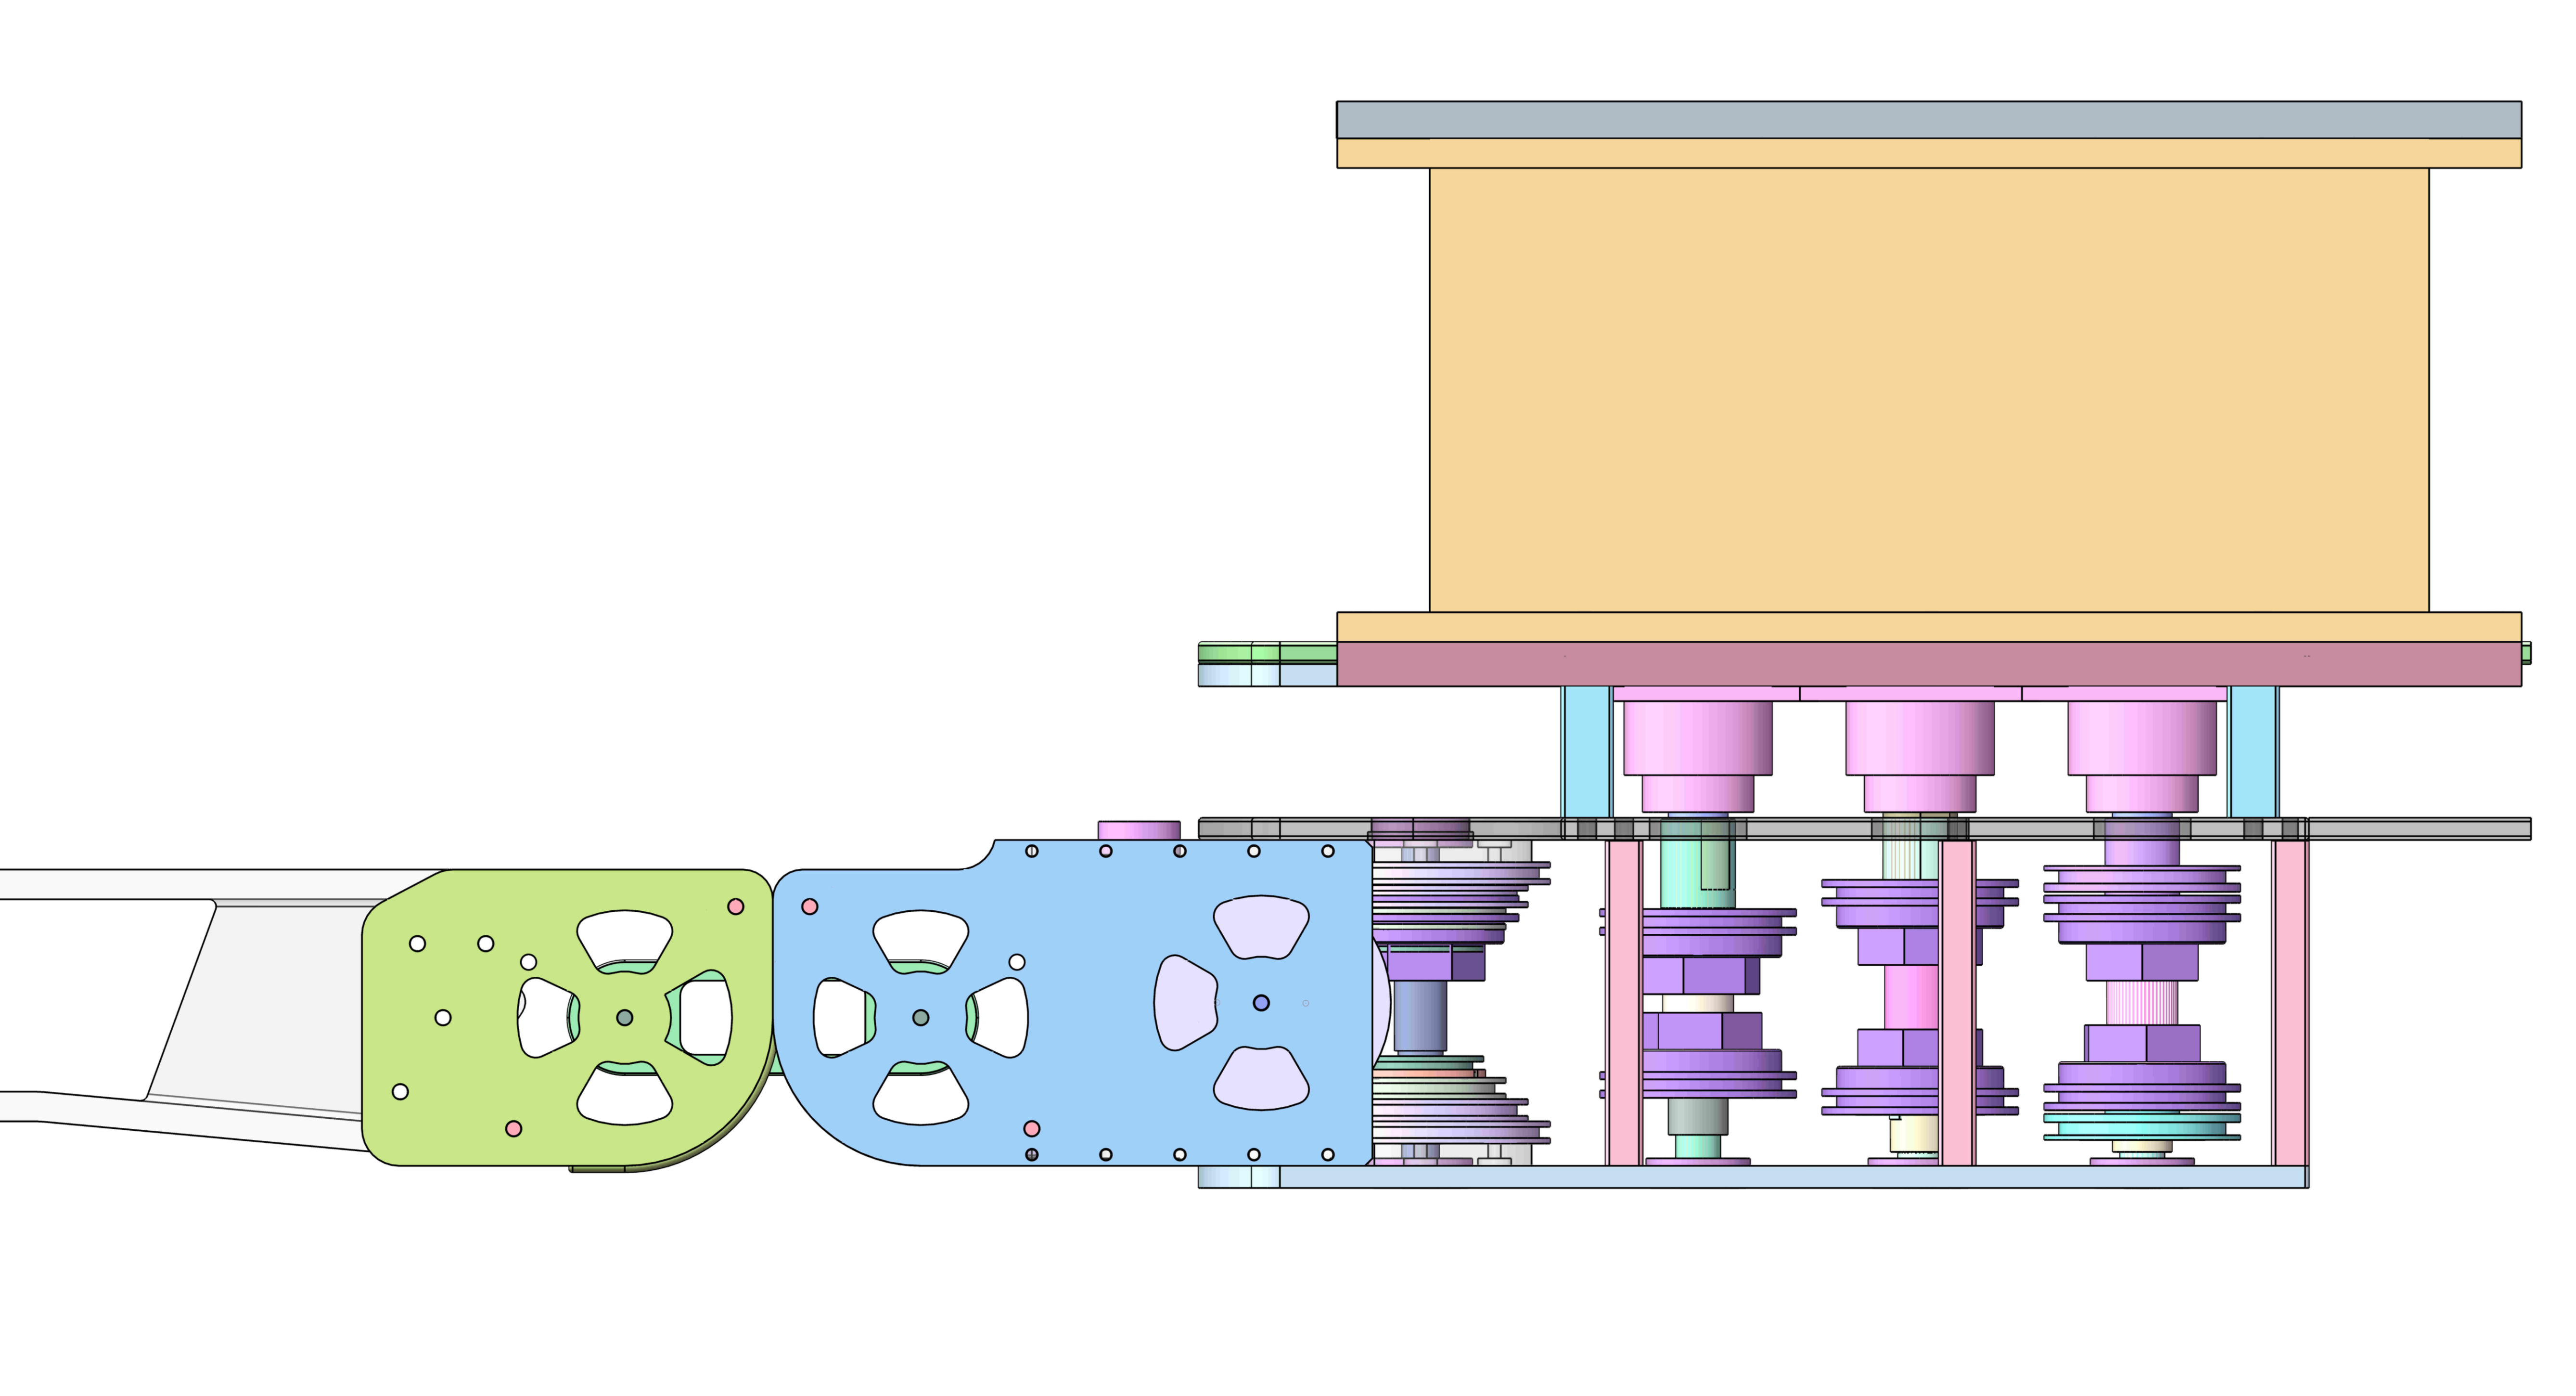
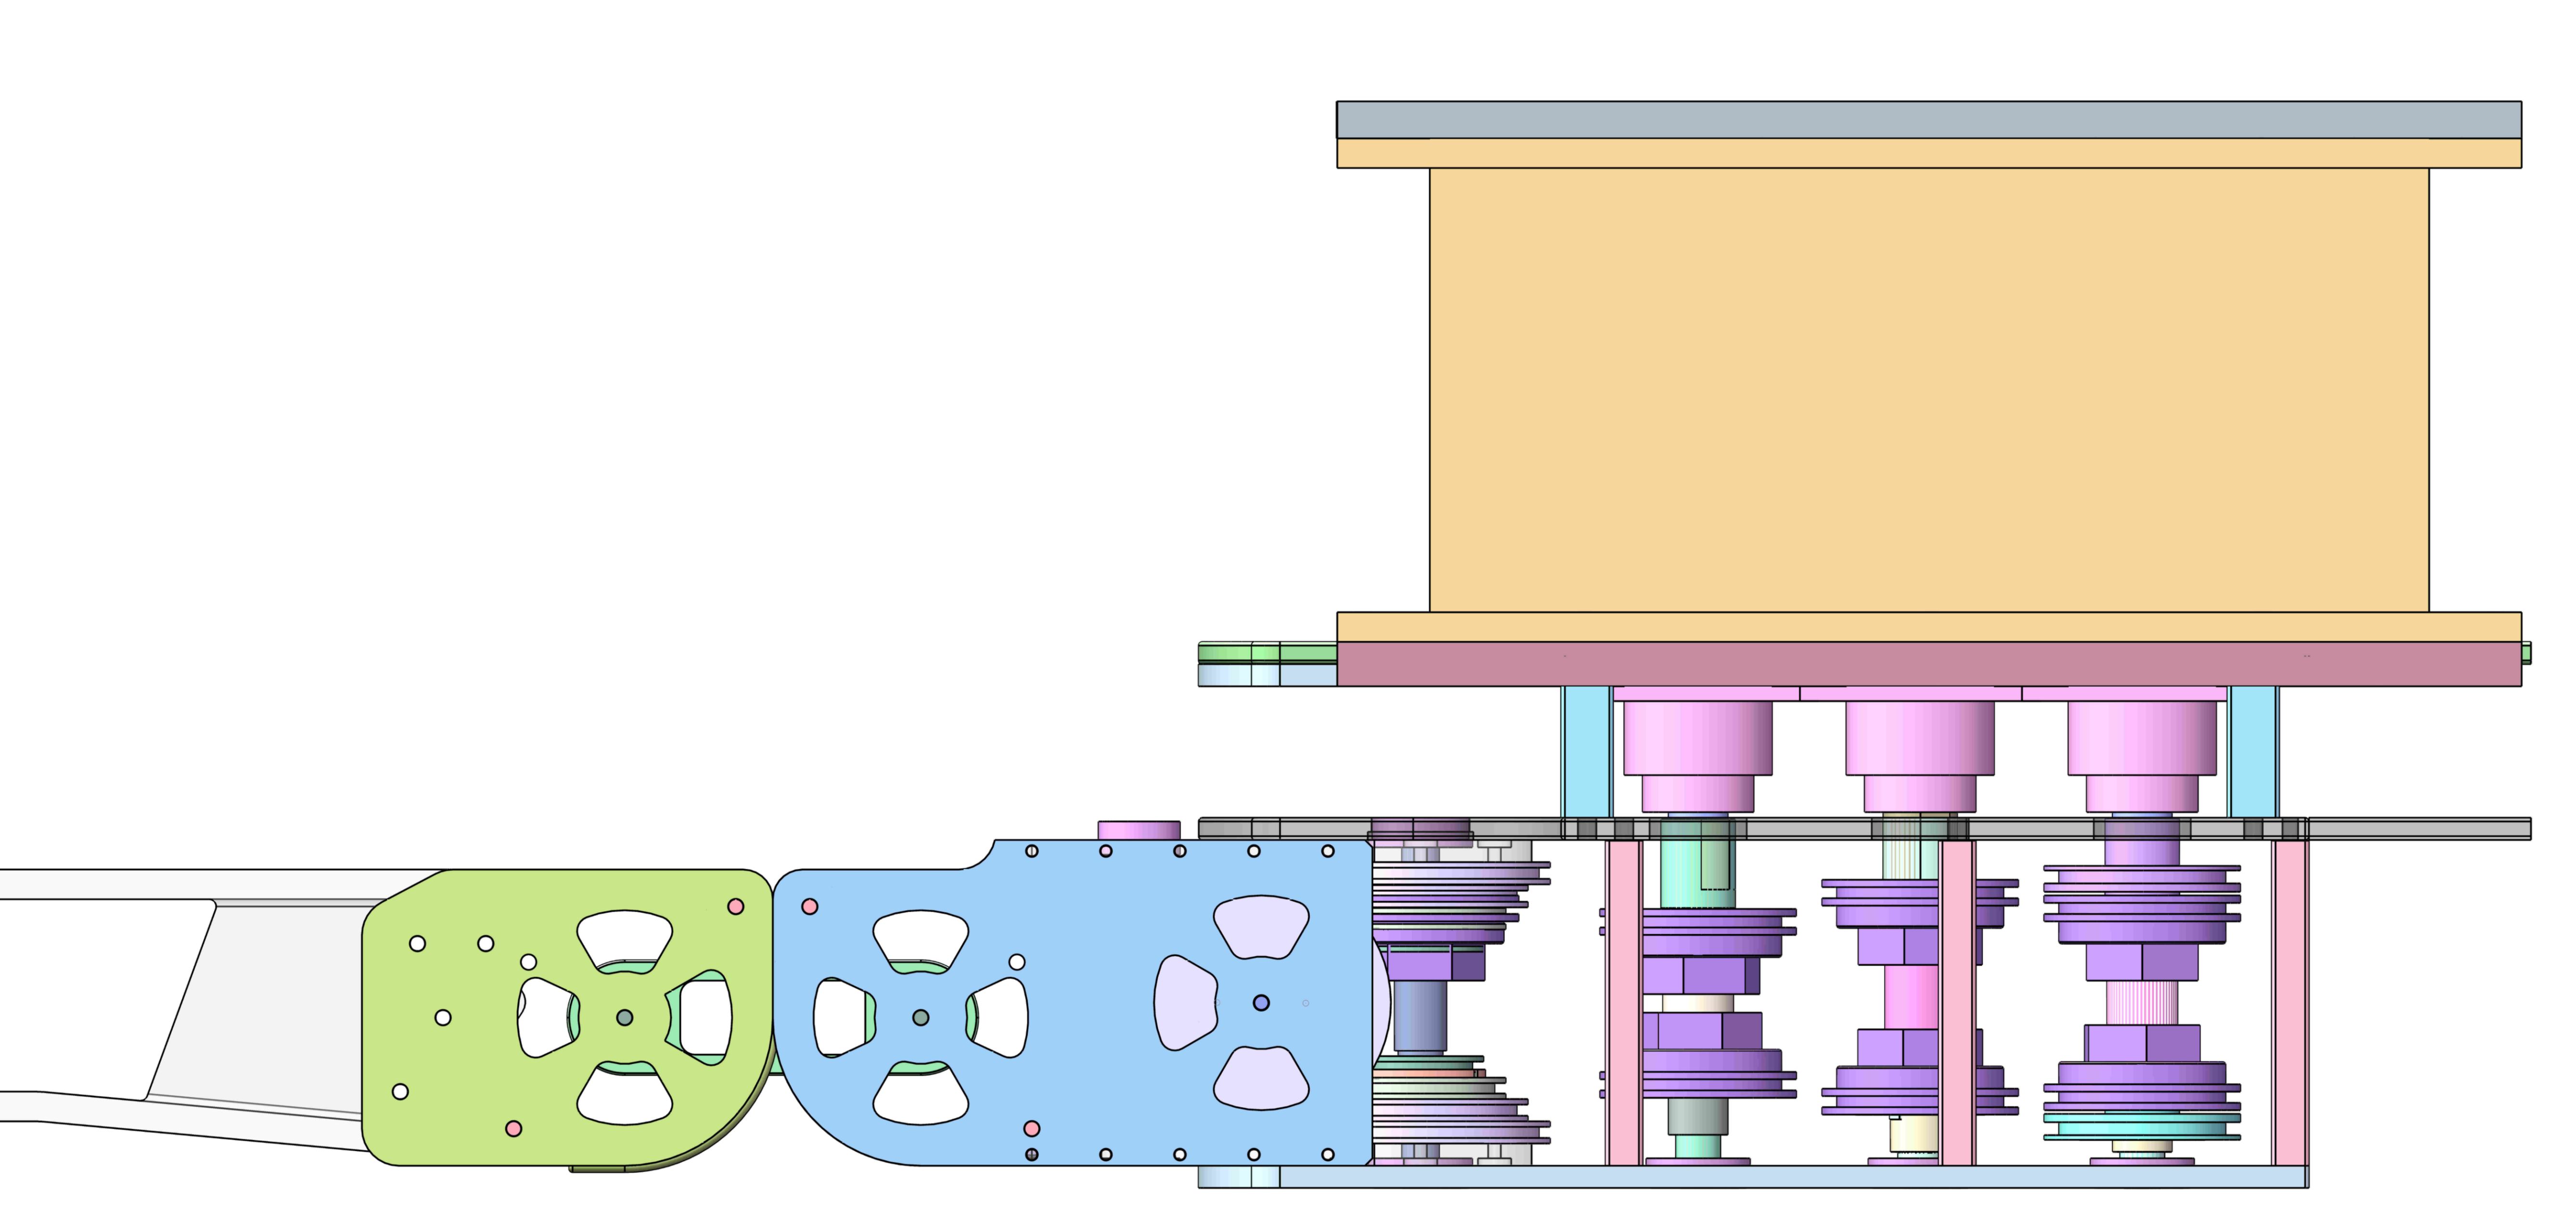
0508提交版

Changed region(s): [[0.0, 0.4326, 0.9983, 0.9889], [0.4992, 0.0618, 0.9983, 0.1545]]

diff --git a/hrbeuthesis-master/appendix/publications.tex b/hrbeuthesis-master/appendix/publications.tex
@@ -5,32 +5,32 @@
 \BiAppendixChapter{攻读学士学位期间发表的学术论文及其它成果} {Papers
 Published in the Period of PH. D. Education}
 
-% 书写格式与参考文献相同，这里手写吧 :-)
+% 书写格式与参考文献相同,这里手写吧 :-)
 % 参见...\Accessories\ThesisCriterion\参考文献国标GB7714-2005.pdf内规定
 （一）申请及已获得的专利
 
-[1] 倪洪运，陈岩，窦朱源，周力，卢晓宇，等.一种装配可拆卸混合动力模块的飞行器[P].CN202510755138.0,2025.06.06.
+[1] 倪洪运,陈岩,窦朱源,周力,卢晓宇,等.一种装配可拆卸混合动力模块的飞行器[P].CN202510755138.0,2025.06.06.
 
-[2] 卢晓宇，陈岩，倪洪运，赵晗竹，杜泽阳，等.横纵向静稳定变质心控制机构[P].CN202510755319.3,2025.06.06.
+[2] 卢晓宇,陈岩,倪洪运,赵晗竹,杜泽阳,等.横纵向静稳定变质心控制机构[P].CN202510755319.3,2025.06.06.
 
-[3] 杜泽阳，陈岩，倪洪运，窦朱源，赵晗竹，等.一种抗强风四旋翼与可变固定翼飞行器系统[P].CN202510755135.7,2025.06.06.
+[3] 杜泽阳,陈岩,倪洪运,窦朱源,赵晗竹,等.一种抗强风四旋翼与可变固定翼飞行器系统[P].CN202510755135.7,2025.06.06.
 
-[4] 骆杨，倪洪运，孙烜业，张城，王永杰，张永锐.一种水下摄像补光装置[P].CN202520508543.8,2025.03.21.
+[4] 骆杨,倪洪运,孙烜业,张城,王永杰,张永锐.一种水下摄像补光装置[P].CN202520508543.8,2025.03.21.
 
 （二）获得的科技奖励
 
-[1]	陈卓艺、倪洪运、窦朱源，等.第十九届“挑战杯”全国大学生课外学术科技作品“揭榜挂帅”专项赛国家特等奖
+[1]	陈卓艺、倪洪运、窦朱源,等.第十九届“挑战杯”全国大学生课外学术科技作品“揭榜挂帅”专项赛国家特等奖
 
-[2]	倪洪运，第十七届“高教杯”全国大学生先进成图技术与产品信息建模创新大赛国家级二等奖
+[2]	倪洪运.第十七届“高教杯”全国大学生先进成图技术与产品信息建模创新大赛国家级二等奖
 
-[3]	张城，倪洪运，南进，等. 第十三届全国海洋航行器设计与制作大赛国家二等奖
+[3]	张城,倪洪运,南进,等. 第十三届全国海洋航行器设计与制作大赛国家二等奖
 
-[4]	刘玉丰，倪洪运，郑子先，等. 第十八届“高教杯”全国大学生先进成图技术与产品信息建模创新大赛国家级团体三等奖
+[4]	刘玉丰,倪洪运,郑子先,等. 第十八届“高教杯”全国大学生先进成图技术与产品信息建模创新大赛国家级团体三等奖
 
 
 % 注：
-% 如已发表的学术论文被EI或SCI收录，请标明收录号及SCI论文的影响因子；
-% 对已接收但尚未发表出来的学术论文，请注明是否EI或SCI刊源。
+% 如已发表的学术论文被EI或SCI收录,请标明收录号及SCI论文的影响因子；
+% 对已接收但尚未发表出来的学术论文,请注明是否EI或SCI刊源。
 
 
 

diff --git a/hrbeuthesis-master/body/Introduction.tex b/hrbeuthesis-master/body/Introduction.tex
@@ -355,6 +355,14 @@ UMA电动水下机械臂由意大利Graal Tec SRL公司为TRIDENT
       \label{pic97}
   \end{minipage}
 \end{figure}
+\BiSection{可持续性发展}{Main Reontents}
+在深海作业装备的研发过程中，融入可持续发展理念不仅是履行国际海洋环保公约的必然要求，更是提升水下机械臂全生命周期作业效能的关键手段。本研究主要从能效提升、环境保护以及作业寿命三个维度贯彻可持续原则。
+
+首先，通过结构优化实现能效提升与资源节约。绳驱架构通过驱动单元后置，大幅降低了臂体的运动惯量。相比传统直驱机械臂，这种轻量化设计在执行同等强度作业任务时可显著降低功耗，有效延长了水下运载器的单次续航时间，减少了能源消耗及相关配套成本。
+
+其次，注重材料选择的环保性与系统安全性。本设计优先选用高强度、耐腐蚀且可循环利用的金属及合成纤维材料，并采用全密封电驱动方案。这有效规避了传统液压机械臂在水下作业时可能发生的油液泄漏风险，从源头上杜绝了对深海脆弱生态环境的化学污染，保障了“蓝色粮仓”的生态安全。
+
+最后，提升装备的可靠性与维护的可持续性。机械臂采用模块化设计，简化了关键易损件（如传动绳索）的更换流程。这种“以修代换”的维护模式有效延长了整机的使用寿命，降低了报废频率。同时，该机械臂具备的高精度作业能力，能精准执行海底垃圾清理、珍稀生物采样等任务，为海洋资源的保护与科学开发提供了可持续的技术支撑。
 \BiSection{论文主要工作内容}{Main Research Contents}
 本文围绕水下绳驱机械臂的结构设计、运动学建模、视觉抓取与试验样机搭建开展研究。
 主要工作内容及章节安排如下:

diff --git a/hrbeuthesis-master/body/Tricks.tex b/hrbeuthesis-master/body/Tricks.tex
@@ -21,9 +21,9 @@
 
 (3) 机械臂运动部分重量不大于3kg；
 
-(4) 机械臂承载能力1kg的有效负载。
+
 \BiSection{机械臂总体结构设计}{Something About Templates}
-针对上述设计要求，机械臂的总体结构设计需在轻量化与作业能力之间寻求平衡。本节将从总体方案、本体结构及导向设计等几个方面，阐述机械臂的结构设计思路。
+针对上述设计要求，机械臂的总体结构设计需在轻量化与作业能力之间寻求平衡。本节将从总体方案、本体结构及导向设计等几个方面，阐述机械臂的结构设计思路。为后续的运动学建模、仿真分析与物理样机研制奠定基础。
 \BiSubsection{机械臂总体方案设计}{Necessary to Use Templates？}
 \label{tricks：necessaryornot}
 为兼顾小型化与低扰动设计需求，本文设计了一种水下绳驱机械臂。该方案采用驱动集成化策略，将所有动力源安置于单一密封舱内，通过绳索传动将电机力矩远端传递至各关节。这种设计不仅显著降低了机械臂的体积与质量，更有效减小了运动过程中的惯性扰动。针对多自由度带来的精度衰减与负载受限问题，本文在保证作业灵活性（通过载体-机械臂协同实现）的前提下，采用3自由度（肩部水平转动、肘部俯仰、腕部俯仰）的构型。其基本结构示意如图\ref{pic12}所示。
@@ -241,7 +241,7 @@
     \begin{minipage}{\textwidth}
         \centering
         \subfigure[完全下探状态]{\label{fig66：sub2}
-            \includegraphics[width =0.55 \textwidth]{figures/下探姿态.jpg}
+            \includegraphics[width =0.65 \textwidth]{figures/下探姿态.jpg}
         } % 这里写第二张图的英文描述
     \end{minipage}
     \hfill % 添加弹性间距

diff --git a/hrbeuthesis-master/main.tex b/hrbeuthesis-master/main.tex
@@ -138,9 +138,10 @@
 % 定义所有的 eps 图像文件在 figures 子目录下
 
 \graphicspath{{figures/}} 
-
+% \setlength{\headheight}{25pt} % 15pt 通常够用，如果还重叠可以改成 18pt 或 20pt
 % 文档开始
-
+\setlength{\headheight}{23pt} 
+\addtolength{\topmargin}{-3.1pt}
 \begin{document}
 
 

diff --git a/hrbeuthesis-master/body/ruanjian.tex b/hrbeuthesis-master/body/ruanjian.tex
@@ -414,7 +414,7 @@ P_{base} = T_{eye}^{base} \cdot (K^{-1} \cdot s \cdot P_{uv})
 
   实验结果表明，该系统具有较好的可靠性。
 在基础运动测试中，机械臂各关节响应灵敏，能够精确执行预定轨迹。
-在视觉抓取实验中，算法能够识别目标物空间坐标，机械臂抓取动作连贯，成功率较高。
+在视觉抓取实验中，算法能够识别目标物空间坐标，机械臂抓取动作连贯。
 
 然而，通过对实验数据的记录与对比发现，机械臂末端执行器的定位精度存在一定的误差。分析其原因，主要受以下因素影响：
 
@@ -436,7 +436,7 @@ P_{base} = T_{eye}^{base} \cdot (K^{-1} \cdot s \cdot P_{uv})
 控制平台，打通了从视觉识别到动作执行的完整数据链路，实现了作业流程的自动化管理。
 实验验证结果表明，样机能够精准执行复位、空间直线与圆弧轨迹规划等预定任务，
 视觉引导下的目标抓取动作连贯，系统反馈链路响应及时，
-软硬件联调方案切实可行。并分析了现存的不足。
+软硬件方案切实可行。
 \clearpage{
   \pagestyle{plain}
   \cleardoublepage

diff --git a/hrbeuthesis-master/setup/format.tex b/hrbeuthesis-master/setup/format.tex
@@ -240,11 +240,11 @@ mu$}\hfill
   \fancyhf{} % 清空原有设置
   
   % 奇数页中间 (Center Odd)：显示章节标题
-  \fancyhead[CO]{\song \xiaowu \leftmark}
+  \fancyhead[CO]{\song \wuhao \leftmark \rule[-2ex]{0pt}{0pt}}
   
   % 偶数页中间 (Center Even)：显示学校和论文类型
   % \fancyhead[CE]{\song \wuhao 哈尔滨工程大学\cxuewei 毕业论文}
-  \fancyhead[CE]{\mbox{\normalfont\song \wuhao 哈尔滨工程大学\cxuewei 毕业论文}}
+  \fancyhead[CE]{\mbox{\normalfont\song \wuhao 哈尔滨工程大学\cxuewei 毕业论文\rule[-2ex]{0pt}{0pt}}}
   % 页脚中间：显示页码
   \fancyfoot[C]{\xiaowu --~\thepage~--}
   